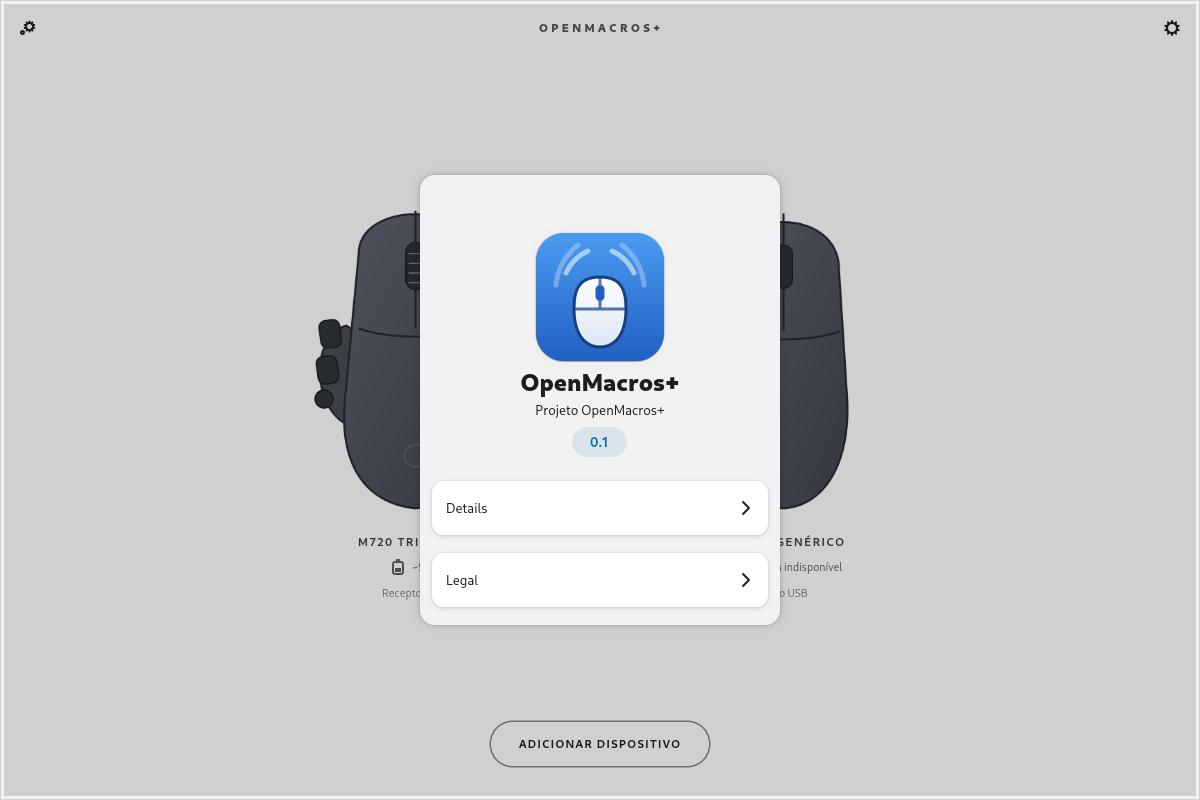
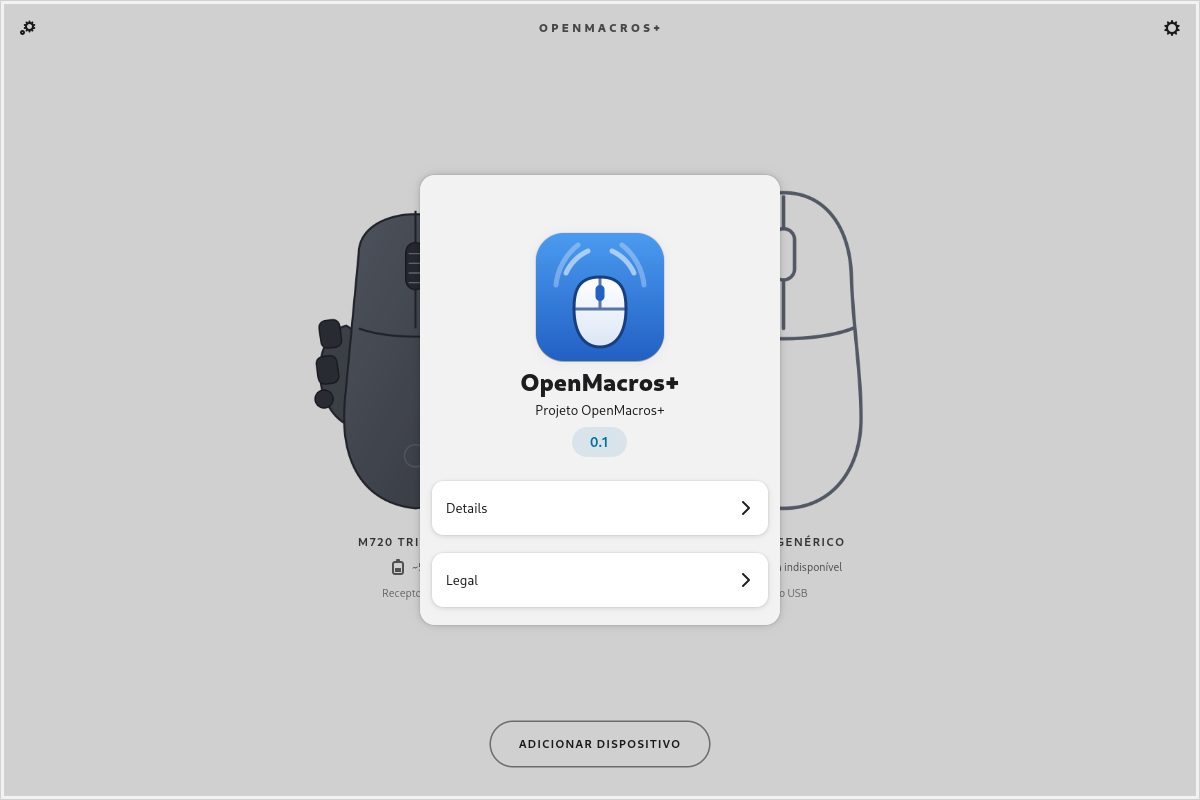
README: nome do computador no Easy-Switch, ícone de linha, nota sobre xvfb; recaptura home e about

Changed region(s): [[0.6475, 0.2188, 0.74, 0.6562]]

diff --git a/README.pt-BR.md b/README.pt-BR.md
@@ -34,14 +34,14 @@ Alternativa livre e independente ao Logi Options+ para Linux. Configura mouses e
   - sistema: bloquear tela, captura de tela, suspender, mostrar área de trabalho, silenciar microfone, Não perturbe (só XFCE), esvaziar lixeira.
 - **Smart Actions.** Automações "Se… Então…". Gatilhos: botão do dispositivo, atalho global de teclado, aplicativo abrindo/fechando/ganhando foco, dispositivo conectando/desconectando. Até 5 gatilhos e 32 passos (ações e atrasos). Modelos prontos, gravador de teclas, exportar e importar.
 - **Apontar e rolar.** Velocidade do ponteiro, DPI, rolagem de alta resolução, inversão de rolagem e SmartShift, conforme o dispositivo suporta. Pode ser sobreposto por aplicativo.
-- **Easy-Switch.** Troca de canal pela janela ou pela bandeja.
+- **Easy-Switch.** Troca de canal pela janela ou pela bandeja. O canal em uso aparece com o nome deste computador; o dispositivo não informa o nome dos outros canais.
 - **Bandeja com bateria.** Ícone pelo menor nível de bateria; menu com dispositivos, perfil ativo e Easy-Switch.
 - **Notificações e OSD.** Bateria baixa, troca de perfil, gesto disparado, conexão/desconexão.
 - **Backup.** Exporta e importa a configuração (mesclar ou substituir).
 
 ### Fotos dos dispositivos
 
-A GUI usa arte vetorial própria, sem nenhum material da Logitech.
+A GUI usa arte vetorial própria, sem nenhum material da Logitech. Um dispositivo sem foto importada (ou que o app não reconhece) é desenhado como um ícone de linha minimalista de mouse ou teclado genérico.
 
 Opcionalmente, você pode importar localmente as fotos oficiais dos dispositivos. Use o item de menu "Importar imagens do Logi Options+…" na tela inicial e aponte para o instalador oficial do Logi Options+ que **você mesmo baixou**. As imagens ficam só no seu computador, em `~/.local/share/openmacros/vendor`, e nunca entram neste repositório.
 
@@ -198,7 +198,7 @@ PYTHONPATH=src python3 -m openmacros.gui                             # GUI, em o
 xvfb-run -a dbus-run-session -- python3 -m pytest -q                 # suíte de testes completa
 ```
 
-Os testes usam um transporte HID++ simulado, então não precisam de hardware. Para os testes de GUI instale `xvfb`, `dbus` e `pytest`. A CI (GitHub Actions, Ubuntu 24.04, Python 3.12 do sistema) roda o mesmo pytest, mais `compileall`, `bash -n` e `shellcheck`. Detalhes em [CONTRIBUTING.md](CONTRIBUTING.md) (em inglês).
+Os testes usam um transporte HID++ simulado, então não precisam de hardware. Para os testes de GUI instale `xvfb`, `dbus` e `pytest`. Rode a suíte sob `xvfb-run`: os testes de gatilhos X11 capturam teclas em um servidor X real e podem falhar numa sessão de desktop em uso. A CI (GitHub Actions, Ubuntu 24.04, Python 3.12 do sistema) roda o mesmo pytest, mais `compileall`, `bash -n` e `shellcheck`. Detalhes em [CONTRIBUTING.md](CONTRIBUTING.md) (em inglês).
 
 ## Contribuindo
 

diff --git a/README.md b/README.md
@@ -36,14 +36,14 @@ A free, independent alternative to Logi Options+ for Linux. It configures Logite
   - system: lock, screenshot, suspend, show desktop, mute microphone, Do Not Disturb (XFCE only), empty trash.
 - **Smart Actions.** "If... Then..." automations. Triggers: a device button, a global keyboard shortcut, an app opening/closing/gaining focus, a device connecting/disconnecting. Up to 5 triggers and 32 steps (actions and delays). Ready-made templates, key recorder, export and import.
 - **Point and scroll.** Pointer speed, DPI, hi-res scrolling, scroll inversion and SmartShift, where the device supports them. Can be overridden per app.
-- **Easy-Switch.** Change channel from the window or from the tray.
+- **Easy-Switch.** Change channel from the window or from the tray. The channel in use is labeled with this computer's name; the device does not report the names of the other channels.
 - **Tray icon with battery.** Icon by lowest battery level, menu with devices, active profile and Easy-Switch.
 - **Notifications and OSD.** Low battery, profile change, gesture fired, connect/disconnect.
 - **Backup.** Export and import your configuration (merge or replace).
 
 ### Device images
 
-The GUI uses its own vector art. It contains no Logitech material.
+The GUI uses its own vector art. It contains no Logitech material. A device with no imported photo (or one the app does not recognize) is drawn as a minimal line icon of a generic mouse or keyboard.
 
 Optionally, you can import the official device photos locally. Use the home-screen menu item "Importar imagens do Logi Options+…" and point it at the official Logi Options+ installer that **you downloaded yourself**. The images are stored only on your computer, in `~/.local/share/openmacros/vendor`. They are never part of this repository.
 
@@ -198,7 +198,7 @@ PYTHONPATH=src python3 -m openmacros.gui                             # GUI, in a
 xvfb-run -a dbus-run-session -- python3 -m pytest -q                 # full test suite
 ```
 
-Tests use a simulated HID++ transport, so they need no hardware. For the GUI tests, install `xvfb`, `dbus` and `pytest`. CI (GitHub Actions, Ubuntu 24.04, system Python 3.12) runs the same pytest command plus `compileall`, `bash -n` and `shellcheck`. Details in [CONTRIBUTING.md](CONTRIBUTING.md).
+Tests use a simulated HID++ transport, so they need no hardware. For the GUI tests, install `xvfb`, `dbus` and `pytest`. Run the suite under `xvfb-run`: the X11 trigger tests grab keys on a real X server and can fail on a busy desktop session. CI (GitHub Actions, Ubuntu 24.04, system Python 3.12) runs the same pytest command plus `compileall`, `bash -n` and `shellcheck`. Details in [CONTRIBUTING.md](CONTRIBUTING.md).
 
 ## Contributing
 
